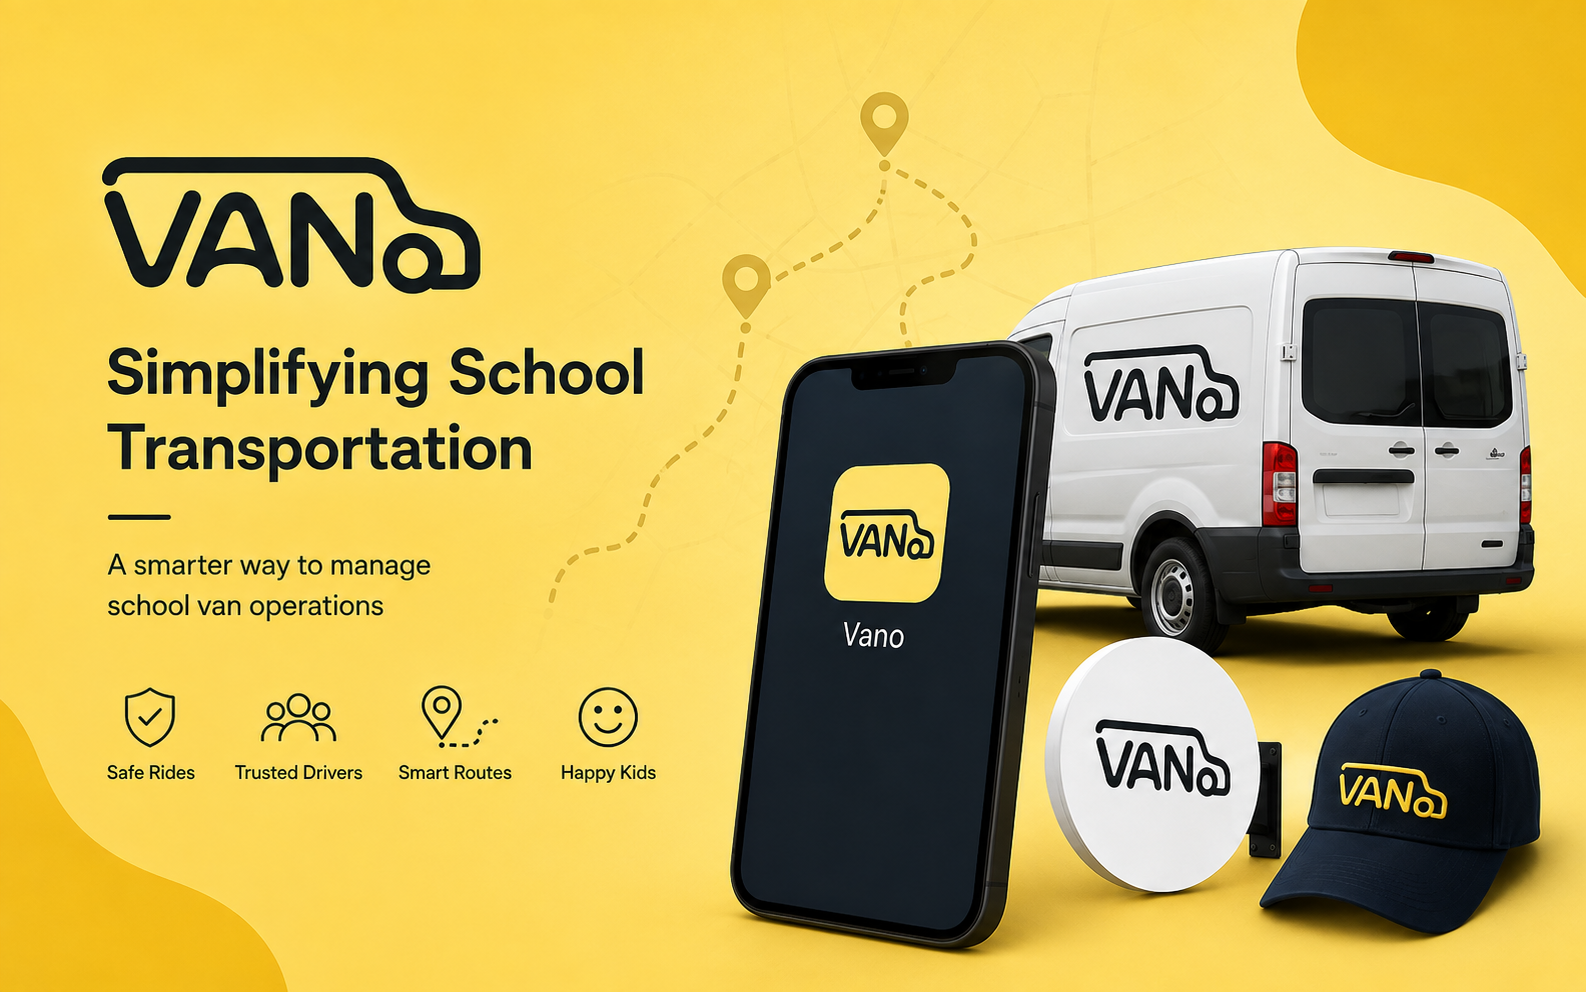
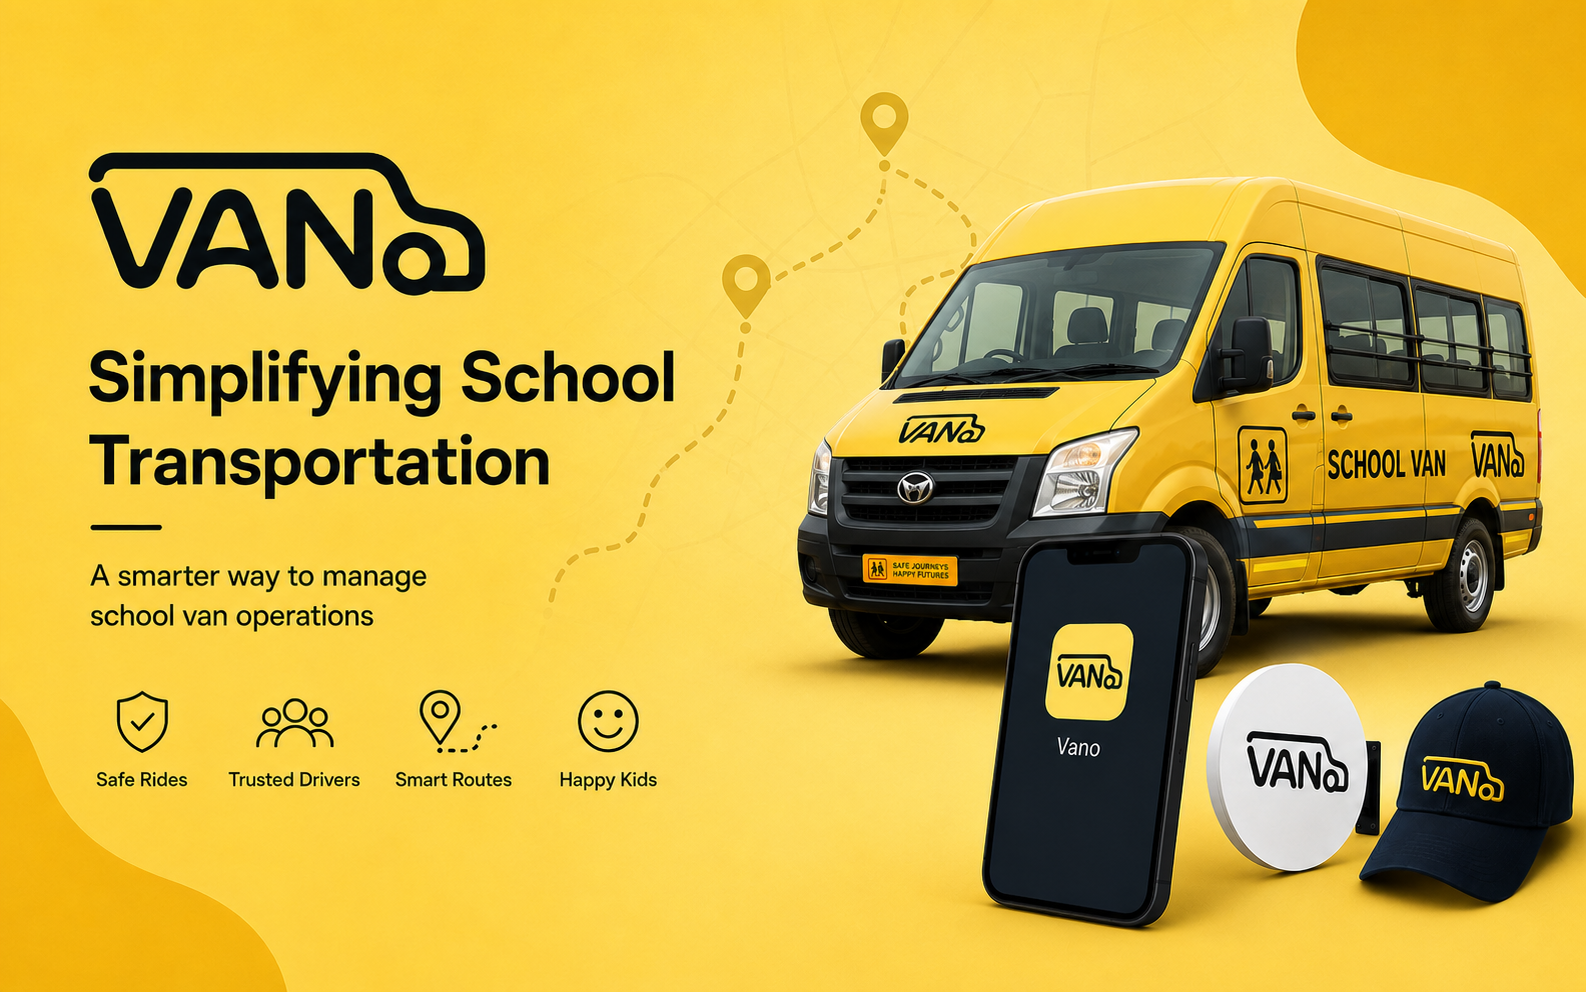
updated email id and vano images in the project

diff --git a/index.html b/index.html
@@ -27,7 +27,10 @@
     <!-- Open Graph -->
     <meta property="og:type" content="website" />
     <meta property="og:site_name" content="Shesha Magi" />
-    <meta property="og:title" content="Shesha Magi — Product Designer & UI/UX Designer" />
+    <meta
+      property="og:title"
+      content="Shesha Magi — Product Designer & UI/UX Designer"
+    />
     <meta
       property="og:description"
       content="Shesha Ram Magi (Shesha Ram / Shesha Magi) is a Freelance Product Designer and UI/UX Designer in India, taking on freelance projects in dashboards, design systems, and digital products."
@@ -36,11 +39,17 @@
     <meta property="og:image" content="https://sheshamagi.in/og-image.png" />
     <meta property="og:image:width" content="1200" />
     <meta property="og:image:height" content="630" />
-    <meta property="og:image:alt" content="Shesha Magi — Freelance Product Designer & UI/UX Designer" />
+    <meta
+      property="og:image:alt"
+      content="Shesha Magi — Freelance Product Designer & UI/UX Designer"
+    />
 
     <!-- Twitter -->
     <meta name="twitter:card" content="summary_large_image" />
-    <meta name="twitter:title" content="Shesha Magi — Product Designer & UI/UX Designer" />
+    <meta
+      name="twitter:title"
+      content="Shesha Magi — Product Designer & UI/UX Designer"
+    />
     <meta
       name="twitter:description"
       content="Shesha Ram Magi (Shesha Ram) is a Product Designer and UI/UX Designer crafting dashboards, design systems, and digital products."
@@ -57,7 +66,7 @@
         "image": "https://sheshamagi.in/profile-photo.JPG",
         "jobTitle": "Freelance Product Designer",
         "description": "Freelance Product Designer and UI/UX Designer based in India, taking on freelance projects in dashboards, design systems, and digital products.",
-        "email": "mailto:sheshamagi18@gmail.com",
+        "email": "mailto:hello@sheshamagi.in",
         "sameAs": [
           "https://dribbble.com/me_shesh",
           "https://www.behance.net/me_shesh",
@@ -79,8 +88,9 @@
       <noscript>
         <h1>Shesha Ram Magi (Shesha Magi / Shesha Ram)</h1>
         <p>
-          Freelance Product Designer and UI/UX Designer based in India, taking on
-          freelance projects in dashboards, design systems, and digital products.
+          Freelance Product Designer and UI/UX Designer based in India, taking
+          on freelance projects in dashboards, design systems, and digital
+          products.
         </p>
       </noscript>
     </div>

diff --git a/src/pages/Home.tsx b/src/pages/Home.tsx
@@ -89,10 +89,10 @@ export function Home() {
         <Reveal delay={500}>
           <div className="mt-8 flex flex-col items-center gap-4 sm:flex-row">
             <EmailLink
-              email="sheshamagi18@gmail.com"
+              email="hello@sheshamagi.in"
               className="text-sm text-ink hover:text-accent"
             >
-              sheshamagi18@gmail.com
+              hello@sheshamagi.in
             </EmailLink>
             <a
               href="/Shesha-Resume.pdf"
@@ -169,7 +169,7 @@ export function Home() {
               Complex ERP System.
             </p>
             <EmailLink
-              email="sheshamagi18@gmail.com"
+              email="hello@sheshamagi.in"
               className="mt-6 inline-block font-mono text-xs uppercase tracking-wide text-accent hover:underline"
             >
               Let&apos;s talk →

diff --git a/src/pages/WorkDetail.tsx b/src/pages/WorkDetail.tsx
@@ -188,8 +188,8 @@ const projectData: Record<string, Project> = {
       "The biggest lesson from Vano was that designing a real-world operational product requires resisting the temptation to solve everything at once. By focusing on the driver's recurring decisions and the moments where information could be lost or misunderstood, I was able to keep the MVP deliberately small while creating a product structure that could support a broader transportation platform in the future.",
 
     coverImage: "/vano-cover.png",
-    displayImage1: "/vano-01.jpg",
-    displayImage2: "/vano-02.jpg",
+    displayImage1: "/vano-01.png",
+    displayImage2: "/vano-02.png",
   },
 };
 

diff --git a/src/components/Footer.tsx b/src/components/Footer.tsx
@@ -31,10 +31,10 @@ export function Footer() {
         <div className="flex flex-col items-start justify-between gap-8 sm:flex-row sm:items-center">
           <div>
             <EmailLink
-              email="sheshamagi18@gmail.com"
+              email="hello@sheshamagi.in"
               className="font-serif text-3xl text-ink hover:text-accent"
             >
-              sheshamagi18@gmail.com
+              hello@sheshamagi.in
             </EmailLink>
             <p className="mt-2 flex items-center gap-2 text-sm text-ink-soft">
               <span

diff --git a/src/components/Navbar.tsx b/src/components/Navbar.tsx
@@ -88,7 +88,7 @@ export function Navbar() {
         </div>
 
         <EmailLink
-          email="sheshamagi18@gmail.com"
+          email="hello@sheshamagi.in"
           className="shrink-0 rounded-full bg-accent px-4 py-2 text-xs font-medium text-white transition-transform duration-200 hover:scale-[1.03] sm:px-5 sm:text-sm"
         >
           Contact

diff --git a/src/pages/WorkList.tsx b/src/pages/WorkList.tsx
@@ -203,7 +203,7 @@ export function WorkList() {
             ERP system.
           </p>
           <EmailLink
-            email="sheshamagi18@gmail.com"
+            email="hello@sheshamagi.in"
             className="mt-6 inline-block font-mono text-xs uppercase tracking-wide text-accent hover:underline"
           >
             Let&apos;s talk →
